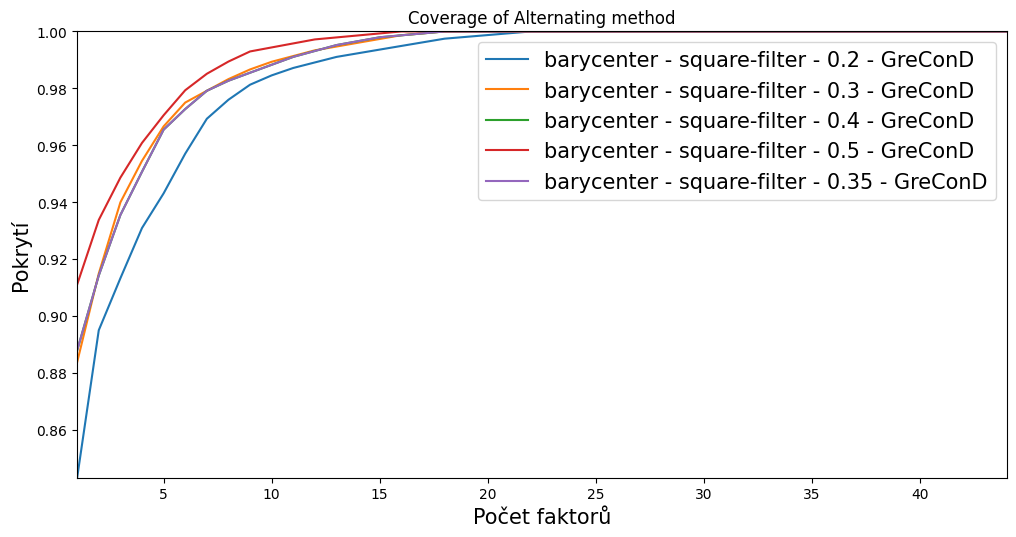
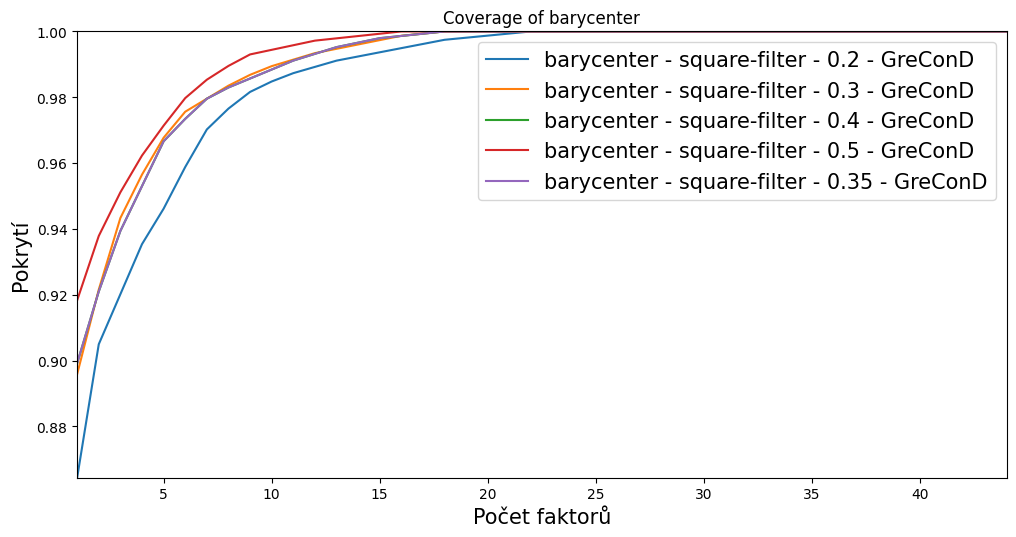
coverage healthcare

diff --git a/coverage-graph.py b/coverage-graph.py
@@ -13,7 +13,7 @@ filters = [("square-filter",["0.2", "0.3", "0.4", "0.5", "0.35"] ),
            ("diletation-erosion-erosion-diletation",["col-matrix-3x3", "col-matrix-3x2", "unit-matrix-3x3"]), 
            ("erosion-diletation-diletation-erosion",["col-matrix-3x3", "col-matrix-3x2", "unit-matrix-3x3"]), 
            ("deleted-band", ["30", "50", "70", "90"])]
-folders = ["zoo"] #"mushroom" export zvlast kvuli roztazeni , "paleo", "zoo", "healthcare"
+folders = ["healthcare"] #"mushroom" export zvlast kvuli roztazeni , "paleo", "zoo", "healthcare"
 
 for folder in folders:
     for type in types:
